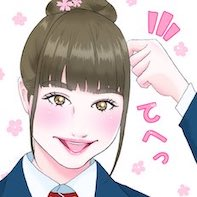
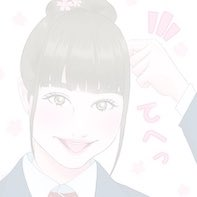
fix bg

diff --git a/src/App.tsx b/src/App.tsx
@@ -23,8 +23,6 @@ function App() {
       gridTemplateRows={"50px auto"}
       justifyItems="center"
       backgroundImage={`${r(0, 3)}.jpg`}
-      backgroundColor="rgba(255,255,255,0.8)"
-      backgroundBlendMode="lighten"
       backgroundSize="auto"
     >
       <GridItem bg="pink.100" fontSize="20px" fontWeight="bold" w="100%">
